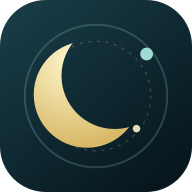
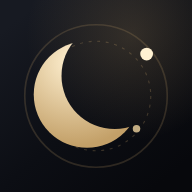
Open with the ayah, and make the home-screen install real
Enrolling in the Apple Developer Program is not possible right now, so
installing from the home screen is the route that actually reaches people.
It was already half-supported; this makes it whole.

The opening: Surat an-Naba 78:9, the verse the whole app is built on,
now opens it rather than sitting buried in the Sleep guide. Held for a
breath, skipped with a tap, shown once per launch rather than once per
screen, and switchable off in settings beside the other faith-aware
options. The face is whichever calligraphic Arabic the device actually
has - Mishafi, Al Bayan or Geeza Pro on Apple platforms, Noto Naskh
elsewhere - because the CSP forbids remote fonts and a Quranic verse
falling back to a UI sans would be worse than not showing it.

Installing: ten iPhone launch images, generated from the same source
drawing as the icons, so a cold start no longer flashes white - which is
the clearest tell that something is a web page and not an app. Plus a
proper 180px touch icon, and a sheet that explains Add to Home Screen,
since Safari never offers it by itself. It appears only on an iPhone, only
in Safari, only once there is an entry worth keeping, and never twice.

brand/make-assets.mjs regenerates every icon and launch image from
brand/icon-source.svg in one command, so swapping the artwork is one edit
and they can never drift apart.

Two silent no-match edits caught by testing: neither the standalone flag
nor the opening were actually being called at startup, so the verse
[…]

diff --git a/index.html b/index.html
@@ -19,7 +19,20 @@
   <meta name="color-scheme" content="dark light" />
   <link rel="manifest" href="./manifest.webmanifest" />
   <link rel="icon" href="./favicon.svg" type="image/svg+xml" />
-  <link rel="apple-touch-icon" href="./sleepsphere-icon-192.png" />
+  <link rel="apple-touch-icon" href="./apple-touch-icon.png" />
+  <!-- Launch images. Without these iOS shows a white flash on every
+       cold start, which is the clearest tell that something is a web
+       page rather than an app. -->
+  <link rel="apple-touch-startup-image" href="./splash/splash-1290x2796.png" media="(device-width: 430px) and (device-height: 932px) and (-webkit-device-pixel-ratio: 3) and (orientation: portrait)" />
+  <link rel="apple-touch-startup-image" href="./splash/splash-1179x2556.png" media="(device-width: 393px) and (device-height: 852px) and (-webkit-device-pixel-ratio: 3) and (orientation: portrait)" />
+  <link rel="apple-touch-startup-image" href="./splash/splash-1206x2622.png" media="(device-width: 402px) and (device-height: 874px) and (-webkit-device-pixel-ratio: 3) and (orientation: portrait)" />
+  <link rel="apple-touch-startup-image" href="./splash/splash-1320x2868.png" media="(device-width: 440px) and (device-height: 956px) and (-webkit-device-pixel-ratio: 3) and (orientation: portrait)" />
+  <link rel="apple-touch-startup-image" href="./splash/splash-1170x2532.png" media="(device-width: 390px) and (device-height: 844px) and (-webkit-device-pixel-ratio: 3) and (orientation: portrait)" />
+  <link rel="apple-touch-startup-image" href="./splash/splash-1242x2688.png" media="(device-width: 414px) and (device-height: 896px) and (-webkit-device-pixel-ratio: 3) and (orientation: portrait)" />
+  <link rel="apple-touch-startup-image" href="./splash/splash-828x1792.png" media="(device-width: 414px) and (device-height: 896px) and (-webkit-device-pixel-ratio: 2) and (orientation: portrait)" />
+  <link rel="apple-touch-startup-image" href="./splash/splash-1125x2436.png" media="(device-width: 375px) and (device-height: 812px) and (-webkit-device-pixel-ratio: 3) and (orientation: portrait)" />
+  <link rel="apple-touch-startup-image" href="./splash/splash-750x1334.png" media="(device-width: 375px) and (device-height: 667px) and (-webkit-device-pixel-ratio: 2) and (orientation: portrait)" />
+  <link rel="apple-touch-startup-image" href="./splash/splash-1242x2208.png" media="(device-width: 414px) and (device-height: 736px) and (-webkit-device-pixel-ratio: 3) and (orientation: portrait)" />
   <title>SleepSphere Prototype — Bio Harmony</title>
   <style>
     :root {
@@ -1441,6 +1454,75 @@
     :root[data-view="today"] .page-heading { display:none; }
     :root[data-view="today"] .topbar { justify-content:flex-end; padding-top:20px; }
 
+    /* The opening.
+
+       Sūrat an-Nabaʾ 78:9 — sleep as sabat, rest — is the idea the whole
+       app is built on, so it opens with it. Held for a breath, skippable
+       with a tap, and shown once per launch rather than on every screen.
+
+       The face is whichever calligraphic Arabic the device actually has:
+       Mishafi and Al Bayan on Apple platforms, Noto Naskh elsewhere. The
+       CSP forbids remote fonts, and a Quranic verse falling back to a UI
+       sans would be worse than not showing it at all. */
+    .opening {
+      position:fixed; inset:0; z-index:90; display:grid; place-items:center;
+      padding:32px; text-align:center; cursor:pointer;
+      background:
+        radial-gradient(ellipse 70% 44% at 50% 42%, rgba(195,160,104,.13), transparent 70%),
+        linear-gradient(178deg, #0b0e18, #06070c);
+      animation:openingIn .9s ease both;
+    }
+    .opening.leaving { animation:openingOut .7s ease both; pointer-events:none; }
+    @keyframes openingIn { from { opacity:0; } to { opacity:1; } }
+    @keyframes openingOut { to { opacity:0; visibility:hidden; } }
+    .opening-inner { max-width:min(620px,92vw); animation:openingRise 1.4s cubic-bezier(.22,1,.36,1) both; }
+    @keyframes openingRise { from { opacity:0; transform:translateY(14px); } to { opacity:1; transform:none; } }
+
+    .ayah {
+      margin:0 0 26px;
+      font-family:'Mishafi', 'Al Bayan', 'Geeza Pro', 'Noto Naskh Arabic', 'Traditional Arabic', 'Scheherazade New', serif;
+      font-size:clamp(34px,10vw,62px); line-height:2; font-weight:400;
+      color:#F6EEDC; text-shadow:0 0 44px rgba(226,200,150,.28);
+      direction:rtl; unicode-bidi:isolate;
+    }
+    .ayah-meaning {
+      margin:0 0 12px; font-family:var(--font-display); font-weight:500;
+      font-size:clamp(15px,4vw,19px); line-height:1.5; letter-spacing:-.01em; color:#C9C0AC;
+    }
+    .ayah-ref {
+      margin:0; color:#C3A068; font-size:11px; font-weight:800;
+      letter-spacing:1.6px; text-transform:uppercase;
+    }
+    @media (prefers-reduced-motion: reduce) {
+      .opening, .opening-inner { animation:none; }
+      .opening.leaving { display:none; }
+    }
+
+    /* Install sheet: shown once, on an iPhone, in Safari, after there is
+       something worth keeping. */
+    .install-sheet { position:fixed; inset:0; z-index:70; display:none; place-items:end center; padding:16px; background:rgba(4,6,12,.66); backdrop-filter:blur(10px); }
+    .install-sheet.active { display:grid; }
+    :root[data-mode="light"] .install-sheet { background:rgba(200,196,186,.6); }
+    .install-card {
+      width:min(520px,100%); max-height:88vh; overflow:auto; padding:26px 22px calc(22px + env(safe-area-inset-bottom));
+      border:1px solid var(--line); border-radius:26px;
+      background:linear-gradient(158deg, rgba(26,30,38,.98), rgba(10,12,18,.99));
+      box-shadow:0 -20px 60px rgba(0,0,0,.6);
+      animation:sheetUp .34s cubic-bezier(.22,1,.36,1) both;
+    }
+    :root[data-mode="light"] .install-card { background:linear-gradient(158deg,#fdfbf6,#f0ece3); }
+    @keyframes sheetUp { from { opacity:0; transform:translateY(26px); } to { opacity:1; transform:none; } }
+    .install-card h2 { margin:12px 0 8px; font-family:var(--font-display); font-weight:500; font-size:clamp(25px,6vw,32px); letter-spacing:-.02em; color:var(--ink); }
+    .install-card > p { margin:0 0 18px; color:var(--muted); font-size:14.5px; line-height:1.5; }
+    .install-steps { display:grid; gap:10px; margin:0 0 20px; padding:0; list-style:none; }
+    .install-steps li { display:grid; grid-template-columns:30px 1fr; gap:12px; align-items:start; padding:12px 13px; border:1px solid var(--line); border-radius:15px; background:rgba(233,228,217,.035); }
+    :root[data-mode="light"] .install-steps li { background:rgba(255,253,247,.7); }
+    .install-steps span { width:30px; height:30px; display:grid; place-items:center; border-radius:50%; color:var(--night); background:var(--moon); font-size:13px; font-weight:800; }
+    .install-steps div { color:var(--ink); font-size:14px; line-height:1.45; }
+    .install-steps strong { color:var(--gold-soft); }
+    :root[data-mode="light"] .install-steps strong { color:#5c4517; }
+    @media (prefers-reduced-motion: reduce) { .install-card { animation:none; } }
+
     /* Your week: seven nights on one axis. */
     .week-strip { display:grid; gap:5px; }
     .week-row { display:grid; grid-template-columns:38px 1fr 26px; align-items:center; gap:9px; }
@@ -2256,6 +2338,7 @@
                 <div class="field"><label for="settingsAge">Age group</label><select id="settingsAge"><option value="teen">13–17</option><option value="adult" selected>18–64</option><option value="older">65+</option><option value="unspecified">Prefer not to say</option></select></div>
                 <div class="field"><label for="settingsTarget">Default sleep target</label><select id="settingsTarget"><option value="420">7 hours</option><option value="450">7½ hours</option><option value="480" selected>8 hours</option><option value="510">8½ hours</option><option value="540">9 hours</option><option value="600">10 hours</option></select></div>
                 <div class="field"><label for="settingsFaith">Faith-aware options</label><select id="settingsFaith"><option value="on">Show Fajr and faith-aware planning</option><option value="off">Keep planning general</option></select></div>
+                <div class="field"><label for="settingsOpening">Opening verse</label><select id="settingsOpening"><option value="on">Open with Sūrat an-Nabaʾ 78:9</option><option value="off">Go straight to the app</option></select></div>
               </div>
               <button class="btn primary" id="saveSettings">Save settings</button>
               <p class="helper" id="ageGuidance" style="margin-top:10px">Adults commonly need around 7–9 hours, with individual variation.</p>
@@ -2322,6 +2405,29 @@
     </div>
   </div>
 
+  <div class="opening" id="opening" role="dialog" aria-label="Sūrat an-Nabaʾ, verse 9">
+    <div class="opening-inner">
+      <p class="ayah" lang="ar" dir="rtl">﴿وَجَعَلْنَا نَوْمَكُمْ سُبَاتًا﴾</p>
+      <p class="ayah-meaning">And We made your sleep a means of rest.</p>
+      <p class="ayah-ref">Sūrat an-Nabaʾ · 78:9</p>
+    </div>
+  </div>
+
+  <div class="install-sheet" id="installSheet" role="dialog" aria-modal="true" aria-labelledby="installTitle">
+    <div class="install-card">
+      <div class="welcome-badge">Put SleepSphere on your home screen</div>
+      <h2 id="installTitle">It works better as an app.</h2>
+      <p>Installed, it opens full screen with no browser bar, works with no signal, and keeps your entries between visits. It takes about ten seconds and installs nothing from the App Store.</p>
+      <ol class="install-steps">
+        <li><span>1</span><div>Tap the <strong>Share</strong> button at the bottom of Safari — the square with an arrow coming out of it.</div></li>
+        <li><span>2</span><div>Scroll down the list and tap <strong>Add to Home Screen</strong>.</div></li>
+        <li><span>3</span><div>Tap <strong>Add</strong>. SleepSphere will be on your home screen like any other app.</div></li>
+      </ol>
+      <div class="button-row"><button class="btn primary" id="installDone">Got it</button><button class="btn ghost" id="installLater">Not now</button></div>
+      <p class="welcome-note">Your entries stay on this phone either way.</p>
+    </div>
+  </div>
+
   <div class="flow" id="flow" role="dialog" aria-modal="true" aria-label="Guided check-in">
     <div class="flow-top">
       <div class="flow-bar"><span id="flowBar"></span></div>
@@ -2345,7 +2451,7 @@
     const STORAGE_KEY = 'sleepsphere_state_v2';
     const defaults = {
       version: 2,
-      settings: { name: '', age: 'adult', target: 480, faith: 'on', dim: false, intent: 'restore', welcomeSeen: false, mode: 'dark', useCycle: false, healthLinked: false, place: null, prayerMethod: 'mwl', madhab: 'standard', tradition: 'fatemi', prayerOffsets: {}, highLatRule: 'seventh', fajrEdited: false },
+      settings: { name: '', age: 'adult', target: 480, faith: 'on', installDismissed: false, openingOff: false, dim: false, intent: 'restore', welcomeSeen: false, mode: 'dark', useCycle: false, healthLinked: false, place: null, prayerMethod: 'mwl', madhab: 'standard', tradition: 'fatemi', prayerOffsets: {}, highLatRule: 'seventh', fajrEdited: false },
       plan: null,
       scans: [],
       thoughts: [],
@@ -3400,6 +3506,7 @@
       state.bioCheckins = state.bioCheckins.filter(item => item.id !== existing?.id); state.bioCheckins.push(checkin);
       state.bioCheckins.sort((a,b) => String(a.date).localeCompare(String(b.date)));
       saveState(); renderBioHarmony(); renderToday(); toast('Bio Harmony saved—next, plan tonight');
+      window.setTimeout(maybeOfferInstall, 2600);
     });
     $('#clearBio').addEventListener('click', () => { resetBioForm(); toast('Bio Harmony form cleared'); });
     $('#exportBio').addEventListener('click', () => {
@@ -3606,6 +3713,7 @@
       $('#settingsAge').value = state.settings.age || 'adult';
       $('#settingsTarget').value = String(state.settings.target || 480);
       $('#settingsFaith').value = state.settings.faith || 'on';
+      if ($('#settingsOpening')) $('#settingsOpening').value = state.settings.openingOff ? 'off' : 'on';
       $('#ageGuidance').textContent = ageGuidance[state.settings.age] || ageGuidance.unspecified;
       const showFaith = state.settings.faith !== 'off';
       $('[data-mode="fajr"]').style.display = showFaith ? '' : 'none';
@@ -3620,6 +3728,7 @@
       state.settings.age = $('#settingsAge').value;
       state.settings.target = Number($('#settingsTarget').value);
       state.settings.faith = $('#settingsFaith').value;
+      if ($('#settingsOpening')) state.settings.openingOff = $('#settingsOpening').value === 'off';
       if (state.settings.faith === 'off' && state.settings.intent === 'fajr') state.settings.intent = 'restore';
       $('#targetHours').value = String(state.settings.target);
       saveState(); applySettings(); renderAll(); toast('Personal settings saved on this device');
@@ -5100,6 +5209,73 @@
       });
     }
 
+    /* ------------------------------------------------------------------
+       Installing to the home screen.
+
+       iOS never offers this by itself — Safari has no install prompt, so an
+       app that could be installed simply never is unless it asks. This asks
+       once, only on an iPhone, only in Safari, and only after the person has
+       actually done something worth keeping. Declining is remembered.
+       ------------------------------------------------------------------ */
+    /* The opening verse. Once per launch, not once per screen — a thing you
+       have to sit through every time you glance at an app stops being
+       reverent and starts being an obstacle. A tap moves past it. */
+    function runOpening() {
+      const opening = $('#opening');
+      if (!opening) return;
+      const reduce = window.matchMedia('(prefers-reduced-motion: reduce)').matches;
+      if (sessionStorage.getItem('ss_opening_seen') || state.settings.openingOff) {
+        opening.remove();
+        return;
+      }
+      sessionStorage.setItem('ss_opening_seen', '1');
+
+      let closed = false;
+      const close = () => {
+        if (closed) return;
+        closed = true;
+        opening.classList.add('leaving');
+        window.setTimeout(() => opening.remove(), reduce ? 0 : 700);
+      };
+      opening.addEventListener('click', close);
+      window.setTimeout(close, reduce ? 900 : 3200);
+    }
+
+    function isStandalone() {
+      return window.navigator.standalone === true
+          || window.matchMedia('(display-mode: standalone)').matches;
+    }
+
+    function isIosSafari() {
+      const ua = navigator.userAgent;
+      const ios = /iPad|iPhone|iPod/.test(ua)
+        || (navigator.platform === 'MacIntel' && navigator.maxTouchPoints > 1);
+      const safari = /Safari/.test(ua) && !/CriOS|FxiOS|EdgiOS|OPiOS/.test(ua);
+      return ios && safari;
+    }
+
+    function maybeOfferInstall() {
+      if (isStandalone()) { document.documentElement.dataset.installed = 'yes'; return; }
+      if (!isIosSafari()) return;
+      if (state.settings.installDismissed) return;
+      // Ask only once there is something worth keeping.
+      if (!state.bioCheckins.length && !state.mornings.some(item => !item.demo)) return;
+      $('#installSheet').classList.add('active');
+    }
+
+    function dismissInstall(remember) {
+      $('#installSheet').classList.remove('active');
+      if (remember) { state.settings.installDismissed = true; saveState(); }
+    }
+    $('#installDone')?.addEventListener('click', () => dismissInstall(true));
+    $('#installLater')?.addEventListener('click', () => dismissInstall(false));
+    $('#installSheet')?.addEventListener('click', event => {
+      if (event.target === $('#installSheet')) dismissInstall(false);
+    });
+    document.addEventListener('keydown', event => {
+      if (event.key === 'Escape' && $('#installSheet')?.classList.contains('active')) dismissInstall(false);
+    });
+
     function closeWelcome(destination) {
       state.settings.welcomeSeen = true;
       saveState();
@@ -5112,6 +5288,8 @@
     document.addEventListener('keydown', event => { if (event.key === 'Escape' && $('#welcomeOverlay').classList.contains('active')) closeWelcome('today'); });
 
     populateForms(); renderTimer(); renderAll();
+    if (isStandalone()) document.documentElement.dataset.installed = 'yes';
+    runOpening();
     // Home-screen shortcuts deep-link straight into a flow or a view.
     const launchTarget = new URLSearchParams(location.search).get('go');
     if (launchTarget === 'flow' || launchTarget === 'morningFlow') {

diff --git a/sw.js b/sw.js
@@ -1,5 +1,5 @@
-const CACHE = 'sleepsphere-v5-guided-prototype-20260908c';
-const SHELL = ['./', './manifest.webmanifest', './favicon.svg', './sleepsphere-icon-192.png', './sleepsphere-icon-512.png'];
+const CACHE = 'sleepsphere-v5-guided-prototype-20260908d';
+const SHELL = ['./', './manifest.webmanifest', './favicon.svg', './apple-touch-icon.png', './sleepsphere-icon-192.png', './sleepsphere-icon-512.png'];
 
 self.addEventListener('install', event => {
   event.waitUntil(caches.open(CACHE).then(cache => cache.addAll(SHELL)).then(() => self.skipWaiting()));
